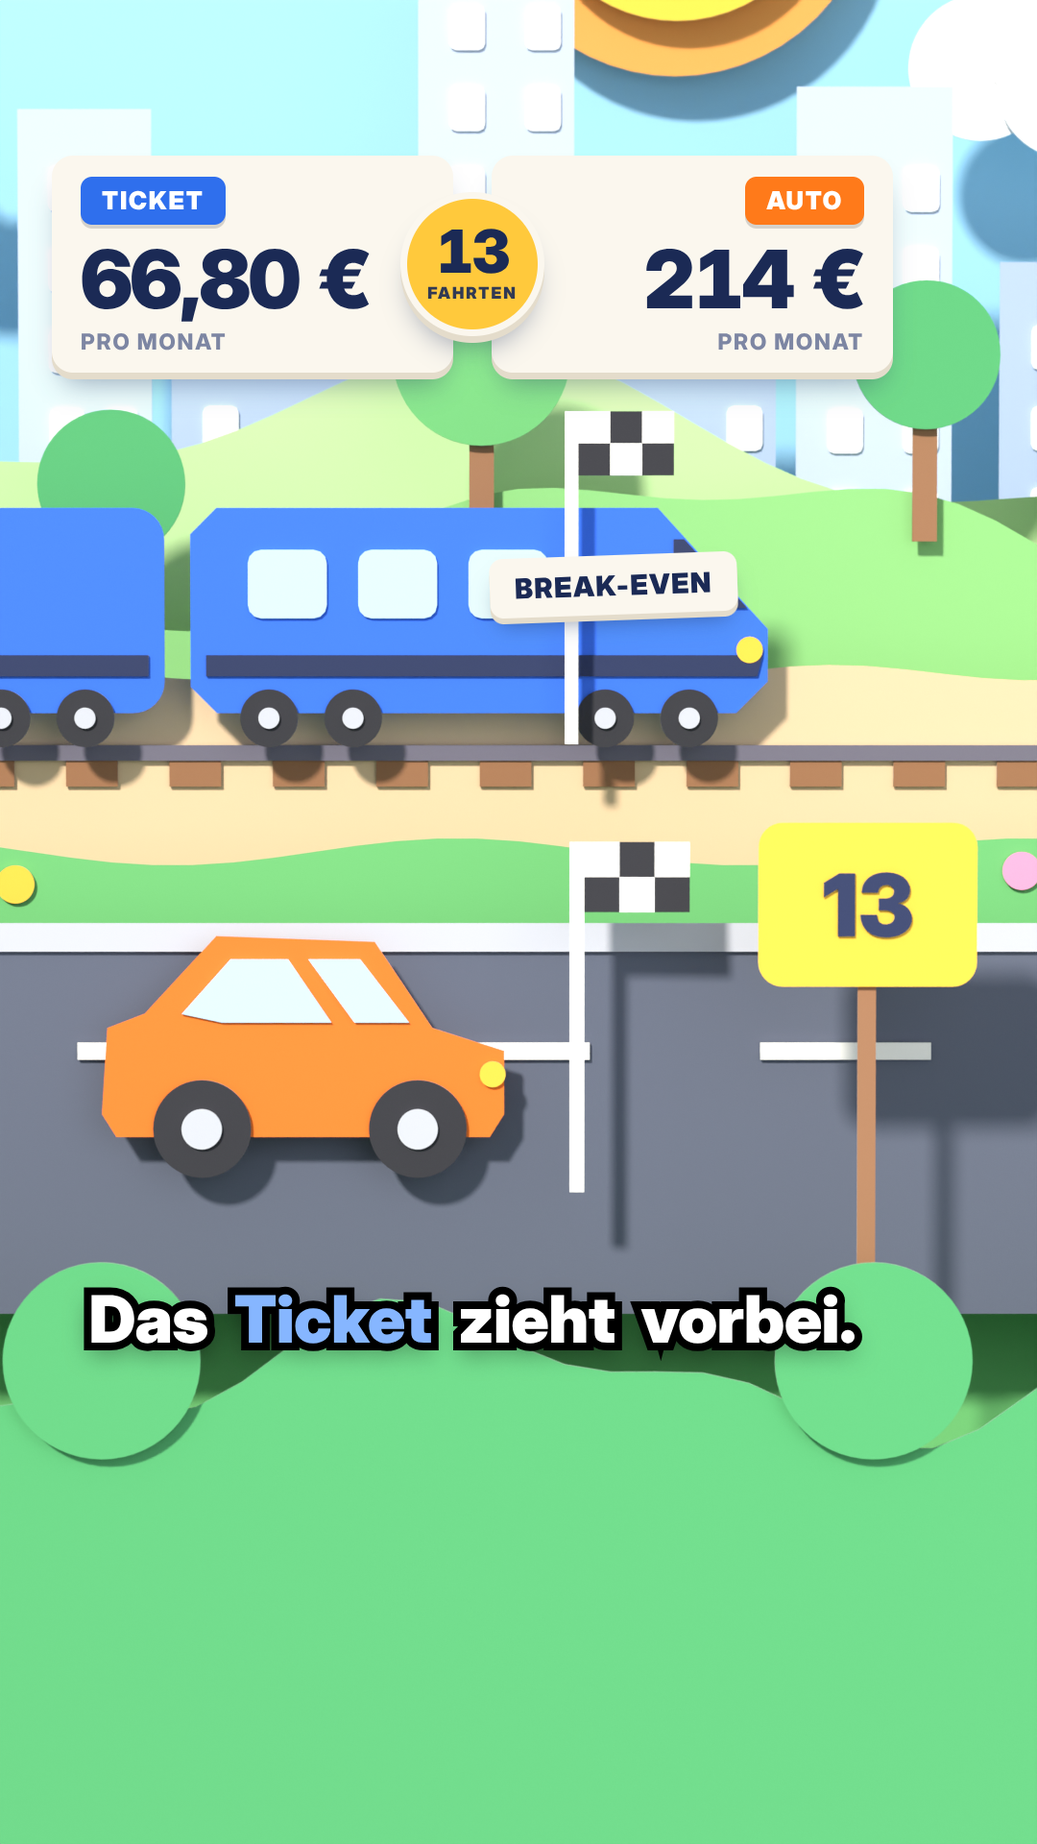
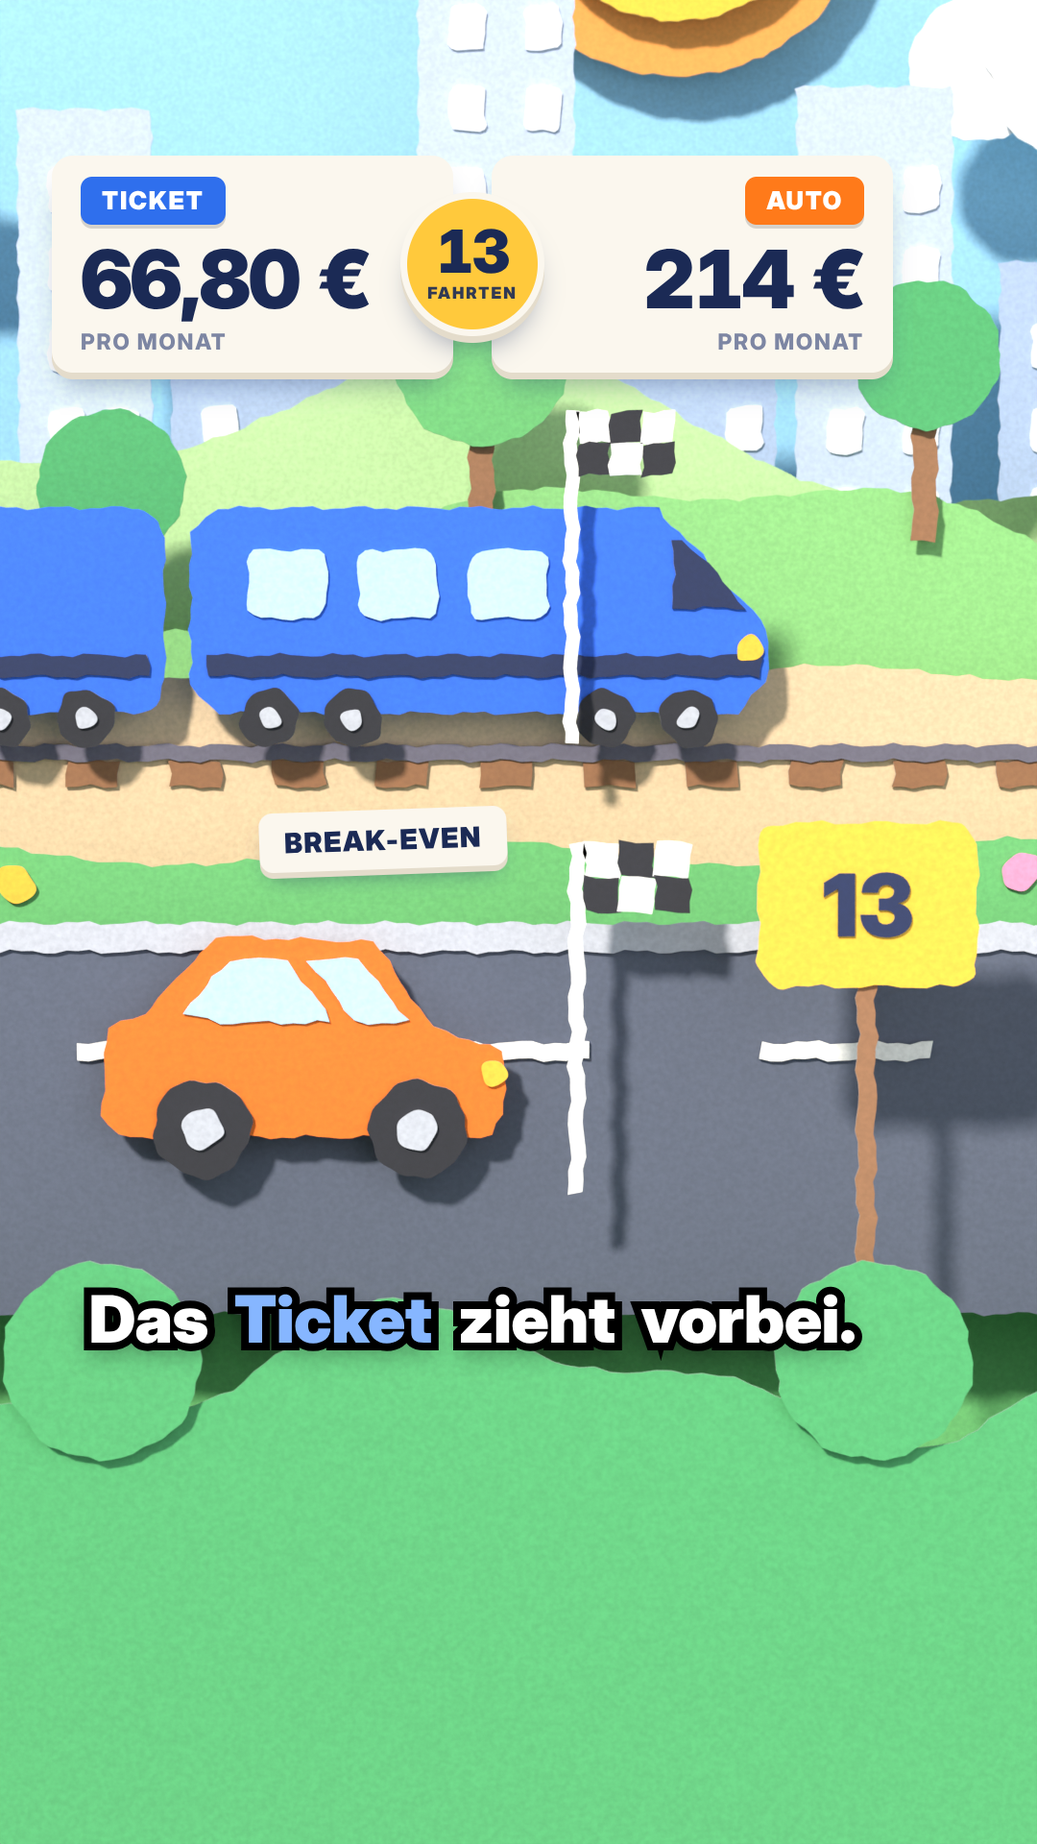
Stil-Katalog um 7 Stile erweitert (9–15: Holz, Papier, Filz, Comic-Toon, Blaupause, Glas-Labor, Holz gebacken), Technik und Renderkosten je Stil, Empfehlung Alleinstellungsmerkmal
Claude-Session: https://claude.ai/code/session_01DQXkz9YLZmqqYzQFpSM2Em

diff --git a/pipeline/stile/stil_10_papier.py b/pipeline/stile/stil_10_papier.py
@@ -29,8 +29,9 @@ def _dunkler(h, f=0.93):
 def papier(name, farbe, rau=0.88):
     """Karton: matte Faser mit Relief, leichte Wolkigkeit im Farbton (wie eingefärbtes Papier)."""
     m = bg.material(name, farbe, rau=rau, sheen=0.35, sheen_rau=0.6)
-    bg.rausch_bump(m, skala=150.0, staerke=0.32, detail=10.0, abstand=0.002)
-    bg.farb_variation(m, _dunkler(farbe, 0.95), farbe, skala=4.0)
+    bg.rausch_bump(m, skala=45.0, staerke=0.45, detail=12.0, abstand=0.003)
+    # Faserkörnung in der Farbe (bleibt nach dem Entrauschen sichtbar, weil der Denoiser die Albedo erhält)
+    bg.farb_variation(m, _dunkler(farbe, 0.93), farbe, skala=55.0)
     return m
 
 
@@ -61,7 +62,13 @@ def schicht(name, punkte, tiefe, farbe_mat, dx=0.0, dz=0.0):
     """Aufrechte Kartonform in der Ebene y = tiefe (Punkte in x/z). Die Kante zittert leicht wie von Hand geschnitten."""
     _nr[0] += 1
     s = _nr[0] * 1.7
-    pts = [(x + dx + 0.007 * math.sin(z * 9.0 + s), z + dz + 0.007 * math.sin(x * 11.0 + s * 1.3)) for x, z in punkte]
+    dicht = []  # gerade Kanten unterteilen, damit das Zittern auch dort wirkt
+    for i, (x0, z0) in enumerate(punkte):
+        x1, z1 = punkte[(i + 1) % len(punkte)]
+        n = max(1, int(math.hypot(x1 - x0, z1 - z0) / 0.04))
+        dicht += [(x0 + (x1 - x0) * k / n, z0 + (z1 - z0) * k / n) for k in range(n)]
+    pts = [(x + dx + 0.006 * math.sin(z * 31.0 + s) + 0.004 * math.sin(z * 73.0 + s * 2.1),
+            z + dz + 0.006 * math.sin(x * 29.0 + s * 1.3) + 0.004 * math.sin(x * 67.0 + s * 0.7)) for x, z in dicht]
     return bg.flaeche(name, pts, D, (0, tiefe, 0), farbe_mat, rot=(math.pi / 2, 0, 0))
 
 

diff --git a/docs/10-designstile.md b/docs/10-designstile.md
@@ -9,7 +9,7 @@
 
 Alle Beispielbilder zeigen denselben Inhalt: das GELD-Duell „Deutschlandticket gegen Auto: Ab wann lohnt sich das Ticket?“. Die Zahlen (66,80 € und 214 € pro Monat, Break-even 13 Fahrten) sind **Beispielwerte**, keine Rechnung.
 
-> **Achtung, alte Beispielbilder 1–8:** Sie entstanden vor dem Maßstab ([15-massstab.md](15-massstab.md)). Sie zeigen teils noch Kanalname und Logo („SIMULIERBAR“ mit Würfel), die Rubrik („€ GELD“), eine große Titelkarte und den alten Karaoke-Untertitel mit gelbem aktuellem Wort. **Das gilt im Video nicht mehr.** Verbindlich ist das Maßstab-Layout: Anzeigetafel oben mit Teamfarben und Zähler, Szene in der Mitte, Untertitel als kurze Phrase (weiß, fett, schwarze Kontur, kein Kasten, Schlüsselwort in Teamfarbe), **kein Kanalname, kein Logo, keine Rubrik**. Die neuen Bilder 9–15 zeigen dieses Layout. Für die Stile 1–8 gilt beim ersten Einsatz: Szene übernehmen, HUD aus `pipeline/stile/massstab.css` bzw. `massstab.js` (Muster) bzw. der Engine.
+> **Achtung, alte Beispielbilder 1–8:** Sie entstanden vor dem Maßstab ([15-massstab.md](15-massstab.md)). Sie zeigen teils noch Kanalname und Logo („SIMULIERBAR“ mit Würfel), die Rubrik („€ GELD“), eine große Titelkarte und den alten Karaoke-Untertitel mit gelbem aktuellem Wort. **Das gilt im Video nicht mehr.** Verbindlich ist das Maßstab-Layout: Anzeigetafel oben mit Teamfarben und Zähler, Szene in der Mitte, Untertitel als kurze Phrase (weiß, fett, schwarze Kontur, kein Kasten, Schlüsselwort in Teamfarbe), **kein Kanalname, kein Logo, keine Rubrik**. Die neuen Bilder 9–15 zeigen dieses Layout. Für die Stile 1–8 gilt beim ersten Einsatz: Szene übernehmen, HUD aus der Engine (`pipeline/engine/massstab.js`). `pipeline/stile/massstab.css` und `massstab.js` sind nur das Muster für die Stilbilder.
 
 ![Neue Stile 9–15 im Maßstab-Layout](assets/stile/uebersicht_neu.jpg)
 
@@ -39,13 +39,13 @@ Renderkosten: Sekunden je Videobild 1080×1920 im Cloud-Container (4 Kerne, ohne
 | 6 | Papier-Collage | `assets/stile/stil_6_collage.png` | News, Gesetze, Handel und Werbung, Debatten: Black Friday, Finanzierung, Abos, Singles Day | heute SVG + Papierfilter → **Three.js** (Flächen mit Canvas-Texturen) oder als 3D-Variante Stil 10 | 0,1 s (SVG) |
 | 7 | Kinetische Typografie | `assets/stile/stil_7_typo.png` | Eine starke Zahl oder ein Mythos: Netto-Schock, Wahrscheinlichkeits-Paradoxa, „Was kostet das in Arbeitsstunden“ | HTML/CSS; bleibt als **HUD-Baustein** in jeder Three.js-Seite erlaubt | 0,2 s |
 | 8 | Karten-/Satellitenoptik | `assets/stile/stil_8_karte.png` | Orte, Wege, Regionen: Stadt gegen Land, Pendeln, Deutschland-Vergleiche, Wetter | Three.js + Bloom | 2,5 s |
-| 9 | **Holzspielzeug-Tisch** | `assets/stile/stil_9_holz.png` | Verkehr und Wege als Spielzeug-Rennen, Familie, Kinder, Spiele, Haushalt; GELD-Duelle mit „Spielgeld“-Münzen | Blender Cycles (Standbild) → fürs Video **Blender → Bake → glTF → Three.js** (Stil 15) | Cycles: «T9» · gebacken in Three.js: «T15F» |
-| 10 | **Papier-Diorama** | `assets/stile/stil_10_papier.png` | Seitenansicht mit zwei Bahnen (wie K1/K2), Stadt gegen Land, Wetter, Natur, Geschichten mit Szenenwechsel (Kulissen schieben) | Blender Cycles → Bake → glTF → Three.js (flache Schichten backen sehr gut) | Cycles: «T10» |
-| 11 | **Filz & Knöpfe** | `assets/stile/stil_11_filz.png` | Zuhause, Heizen, Strom, Schlaf, Winter, **Weihnachten** (Weihnachtsgeld 20.–28.11.), Kinder und Familie | Blender Cycles (Faserglanz) → Bake → glTF → Three.js | Cycles: «T11» |
-| 12 | **Comic-Toon 3D** | `assets/stile/stil_12_comic.png` | Schnelle Rennen mit Action: Verkehr, Sport, Wettläufe, Mythen; Sticker „ÜBERHOLT!“ passt perfekt | Three.js (Cel-Shading 3 Stufen, Rasterpunkte, Konturen) | «T12» |
-| 13 | **Blaupause / Schnittmodell** | `assets/stile/stil_13_blaupause.png` | „Warum?“-Aufschlüsselung, Technik, Energie, Autokosten, Geräte im Querschnitt; auch als **Szenenwechsel-Baustein** in jedem Stil | Three.js (dicke Linien, verdeckte Kanten gestrichelt, Röntgen-Füllung) | «T13» |
-| 14 | **Glas-Labor (Füllstand)** | `assets/stile/stil_14_glas.png` | Alles, was sich ansammelt: Kosten pro Fahrt, Wasser, Strom, Sprit, Zeit; Füllstand-Rennen | Blender Cycles (dünnwandiges Glas, Flüssigkeit mit Subsurface); Three.js mit `transmission` als schnellere, schwächere Variante | Cycles: «T14» |
-| 15 | **Holz gebacken** (Technik-Muster zu 9) | `assets/stile/stil_15_holz_gltf.png` | wie 9; zeigt den Produktionsweg für alle Blender-Stile | Blender (Cycles-Bake) → glTF → Three.js | einmalig Backen «T15B», danach «T15F» |
+| 9 | **Holzspielzeug-Tisch** | `assets/stile/stil_9_holz.png` | Verkehr und Wege als Spielzeug-Rennen, Familie, Kinder, Spiele, Haushalt; GELD-Duelle mit „Spielgeld“-Münzen | Blender Cycles (Standbild) → fürs Video **Blender → Bake → glTF → Three.js** (Stil 15) | Cycles: 194 s (48 Samples) · gebacken in Three.js: 0,9 s |
+| 10 | **Papier-Diorama** | `assets/stile/stil_10_papier.png` | Seitenansicht mit zwei Bahnen (wie K1/K2), Stadt gegen Land, Wetter, Natur, Geschichten mit Szenenwechsel (Kulissen schieben) | Blender Cycles → Bake → glTF → Three.js (flache Schichten backen sehr gut) | Cycles: 133 s (48 Samples) |
+| 11 | **Filz & Knöpfe** | `assets/stile/stil_11_filz.png` | Zuhause, Heizen, Strom, Schlaf, Winter, **Weihnachten** (Weihnachtsgeld 20.–28.11.), Kinder und Familie | Blender Cycles (Faserglanz) → Bake → glTF → Three.js | Cycles: 288 s (48 Samples) |
+| 12 | **Comic-Toon 3D** | `assets/stile/stil_12_comic.png` | Schnelle Rennen mit Action: Verkehr, Sport, Wettläufe, Mythen; Sticker „ÜBERHOLT!“ passt perfekt | Three.js (Cel-Shading 3 Stufen, Rasterpunkte, Konturen) | 0,5 s |
+| 13 | **Blaupause / Schnittmodell** | `assets/stile/stil_13_blaupause.png` | „Warum?“-Aufschlüsselung, Technik, Energie, Autokosten, Geräte im Querschnitt; auch als **Szenenwechsel-Baustein** in jedem Stil | Three.js (dicke Linien, verdeckte Kanten gestrichelt, Röntgen-Füllung) | 0,2 s |
+| 14 | **Glas-Labor (Füllstand)** | `assets/stile/stil_14_glas.png` | Alles, was sich ansammelt: Kosten pro Fahrt, Wasser, Strom, Sprit, Zeit; Füllstand-Rennen | Blender Cycles (dünnwandiges Glas, Flüssigkeit mit Subsurface); Three.js mit `transmission` als schnellere, schwächere Variante | Cycles: 299 s (56 Samples) |
+| 15 | **Holz gebacken** (Technik-Muster zu 9) | `assets/stile/stil_15_holz_gltf.png` | wie 9; zeigt den Produktionsweg für alle Blender-Stile | Blender (Cycles-Bake) → glTF → Three.js | einmalig Backen 5,5 Min., danach 0,9 s (ohne Unschärfe 0,5 s) |
 
 **Regeln bei der Wahl:**
 - Zwei direkt aufeinanderfolgende Videos haben nie denselben Stil.
@@ -69,7 +69,7 @@ Gemeinsam: Maßstab-HUD aus `pipeline/stile/massstab.css` und `massstab.js` (Taf
 11. **Filz & Knöpfe** (`stil_11_filz.py` + `.html`)
     - Look: gepolsterte Filzformen mit Faserglanz, Ziernähte, Knöpfe als Räder, Bommel-Bäume, Garnrolle, Filzfähnchen „13“, Tafel als Filzflicken mit Naht.
     - Stärke: gemütlich, saisonal (Winter, Weihnachten), sehr eigen (A).
-    - Schwäche: teuerster Material-Look (Faserglanz und Struktur brauchen Samples); feine Fusseln nur mit Haar-Partikeln (noch teurer). Für viele Objekte zu unruhig (A).
+    - Schwäche: neben Glas der teuerste Look (Faserglanz und Struktur brauchen Samples). Die Faser muss als Farbkörnung im Material liegen, sonst glättet der Denoiser sie weg (F, Test). Echte Fusseln nur mit Haar-Partikeln (noch teurer). Für viele Objekte zu unruhig (A).
 12. **Comic-Toon 3D** (`stil_12_comic.html` + `.js`)
     - Look: Cel-Shading in 3 Stufen, Rasterpunkte (Halftone) in den Schatten, schwarze Konturen, harte Schatten, Strahlenkranz-Himmel, Tempostriche, Sticker „ÜBERHOLT!“, schräge Comic-Panels als Tafel.
     - Stärke: maximal lesbar und energiegeladen, rendert schnell, keine Nachbearbeitung nötig (F, Messung). Bausteine aus dem Maßstab (Sticker, Chips) passen nahtlos.
@@ -79,13 +79,13 @@ Gemeinsam: Maßstab-HUD aus `pipeline/stile/massstab.css` und `massstab.js` (Taf
     - Stärke: macht die „Warum?“-Aufschlüsselung sichtbar (Maßstab-Gesetz 8). Schnellster neuer Stil (F, Messung).
     - Schwäche: allein zu kühl für ein ganzes Video; am besten als Szenenwechsel (A).
 14. **Glas-Labor** (`stil_14_glas.py` + `.html`)
-    - Look: zwei Messzylinder im Fotostudio (Hohlkehle, Softboxen), Geld als farbige Flüssigkeit, Zulauf mit Strahl über dem Auto-Zylinder, gelbe Gleichstand-Linie, Zielstrich „214“, Milchglas-Tafel.
+    - Look: zwei Messzylinder aus dünnem Laborglas im Fotostudio (Hohlkehle, Softboxen), Geld als farbige Flüssigkeit, Zulauf mit Strahl und Tropfen über dem Auto-Zylinder, gelbe Gleichstand-Linie, Zielstrich „214“, Teamchips auf den Zylindern, Milchglas-Tafel.
     - Stärke: Füllstand ist ein Live-Zähler, den jeder ohne Erklärung versteht; erinnert an K4 (Messzylinder), aber fotorealistisch statt 2.5D (A).
-    - Schwäche: Glas mit Brechung ist der teuerste Effekt; im Video nur gebacken bzw. mit Three.js-`transmission` vereinfacht (S).
+    - Schwäche: Glas und durchscheinende Flüssigkeit sind blickabhängig und lassen sich nicht backen. Fürs Video: Three.js-`transmission` bzw. halbtransparente Flüssigkeit mit gebackener Umgebung (S). Echte dicke Glaswände (Brechung) wurden in Cycles schwarz bzw. unruhig; dünnwandiges Glas (`Thin Wall`) ist sauberer und schneller (F, Test).
 15. **Holz gebacken: Blender → glTF → Three.js** (`stil_15_holz_gltf.py` + `.html`/`.js`)
     - Weg: Szene aus Stil 9 bauen → Licht in Texturen backen (Cycles, diffus: direkt + indirekt + Farbe) → eine `.glb`-Datei → Three.js zeigt sie mit unbeleuchteten Materialien, AgX-Tonemapping wie Blender und einer günstigen Tiefenunschärfe (Abstand je Pixel, Weichzeichner in halber und viertel Auflösung, Stärke aus Brennweite und Blende der Blender-Kamera). Der fertige `BokehPass` von Three.js kostete unter Last 2,6–3 s je Bild (F, Messung) und wurde deshalb ersetzt.
     - Regeln: Tisch und Kulisse **ohne** Fahrzeuge backen, Fahrzeuge einzeln backen und mit mitfahrendem Kontaktschatten bewegen; Glanz wird nicht gebacken.
-    - Ergebnis: Das Bild ist dem Cycles-Bild 9 sehr nah (F, Bildvergleich). Unterschiede: kein Glanz auf dem Lack, Farben etwas flauer (der AgX-„Punchy“-Look fehlt in Three.js), Kontaktschatten der Fahrzeuge weicher. Zug und Auto lassen sich per `renderAt(t)` verschieben (Beweis der Animierbarkeit).
+    - Ergebnis: Das Bild ist dem Cycles-Bild 9 sehr nah (A, eigener Bildvergleich). Unterschiede: kein Glanz auf dem Lack, Farben etwas flauer (der AgX-„Punchy“-Look fehlt in Three.js), Kontaktschatten der Fahrzeuge weicher. Zug und Auto lassen sich per `renderAt(t)` verschieben (Beweis der Animierbarkeit).
     - Fallstrick (behoben): `gltf.scene` ist in Three.js nur eine Gruppe. `overrideMaterial` und `background` wirken erst, wenn sie in eine echte `THREE.Scene` gehängt wird.
 
 ### 0.2 Bewertung aller geprüften Kandidaten (Recherche 31.10./01.11.2026)
@@ -112,16 +112,16 @@ Punkte 1 (schlecht) bis 5 (gut), alle **Schätzungen (S)** auf Basis der Beispie
 
 ### 0.3 Technik-Pfade und Renderkosten (gemessen 01.11.2026)
 
-Messung im Cloud-Container (4 Kerne, ohne GPU). **Parallel lief ein Blender-Render eines anderen Agenten** (Last 7–10). Die absoluten Cycles-Werte sind deshalb zu hoch, ohne Last etwa halb so lang (S).
+Messung im Cloud-Container (4 Kerne, ohne GPU), Cycles mit 3–4 Threads. **Zeitweise lief parallel ein Blender-Render eines anderen Agenten** (Last 3–10). Unter Volllast dauerten dieselben Bilder 1,6- bis 2-mal so lange (F: Holz 307 statt 194 s, Filz 592 statt 288 s, Backen 560 statt 327 s, Bild aus dem Bake-Weg 1,5–1,75 statt 0,9 s). Werte: `pipeline/stile/messung_neu.json`.
 
 | Pfad | Was | Cloud (F, gemessen) | Windows-PC mit GPU (S) | Einsatz |
 |---|---|---|---|---|
-| Three.js direkt | Comic (12), Blaupause (13) | «T12» bzw. «T13» je Bild → 80-s-Video ca. «V12» | 3–5 Min. je Video | Produktion |
-| Blender Cycles je Bild | Holz, Papier, Filz, Glas als Standbild, 1080×1920, 48–96 Samples + Denoiser | Holz «T9», Papier «T10», Filz «T11», Glas «T14» je Bild → 80-s-Video **über 200 Std.** | 5–20 s je Bild → 3–13 Std. je Video | **nur** Standbilder, Vorschaubild, kurze Einschübe (1–3 s) |
-| Blender → Bake → glTF → Three.js | Stil 15 (Holz) | einmalig Backen «T15B», danach «T15F» je Bild → 80-s-Video ca. «V15» | Backen 1–3 Min., je Bild unter 0,3 s | **Produktionsweg für alle Material-Stile** |
+| Three.js direkt | Comic (12), Blaupause (13) | 0,5 s bzw. 0,2 s je Bild → 80-s-Video ca. 21 bzw. 8 Min. | 3–5 Min. je Video | Produktion |
+| Blender Cycles je Bild | Holz, Papier, Filz, Glas als Standbild, 1080×1920, 48–56 Samples + Denoiser (OpenImageDenoise) | Papier 133 s, Holz 194 s, Filz 288 s, Glas 299 s je Bild → 80-s-Video **90–200 Std.** | 5–20 s je Bild → 3–13 Std. je Video | **nur** Standbilder, Vorschaubild, kurze Einschübe (1–3 s) |
+| Blender → Bake → glTF → Three.js | Stil 15 (Holz): 5 Lichttexturen (2048² Kulisse, 1024² Zug und Auto, 1024×512 Tisch, 512² Wand), 32 Samples, `.glb` 1,7 MB | einmalig Backen 5,5 Min. (Kulisse 152 s, Zug 68 s, Auto 64 s, Tisch 36 s, Wand 5 s), danach 0,9 s je Bild mit Tiefenunschärfe (0,5 s ohne) → 80-s-Video ca. 35 Min. | Backen 1–3 Min., je Bild unter 0,3 s | **Produktionsweg für alle Material-Stile** |
 | Blender Eevee | gleiche Szenen, Echtzeit-Renderer | in der Cloud nicht brauchbar: läuft nur per Software-OpenGL (Testkugel 540×960: 42 s, mit Bildfehler) (F) | ca. 0,5–3 s je Bild (S) | Option, sobald der Windows-PC rendert |
 
-Folgerung: Der Qualitätssprung durch Blender ist im Standbild deutlich (F, Bildvergleich 9 gegen 3). Fürs Video ist Cycles je Bild in der Cloud nicht machbar. **Der Bake-Weg holt den Großteil der Blender-Qualität (Licht, weiche Schatten, Material) zu Three.js-Kosten** (F, Messung Stil 15). Was verloren geht: Glanz und Spiegelungen, Glas-Brechung, bewegte Schatten (Ersatz: Kontaktschatten, Three.js-Glanzlicht) (F, Bildvergleich).
+Folgerung: Der Qualitätssprung durch Blender ist im Standbild deutlich (A, eigener Bildvergleich 9 gegen 3). Fürs Video ist Cycles je Bild in der Cloud nicht machbar. **Der Bake-Weg holt den Großteil der Blender-Qualität (Licht, weiche Schatten, Material) zu Three.js-Kosten** (F, Messung Stil 15). Was verloren geht: Glanz und Spiegelungen, Glas-Brechung, bewegte Schatten (Ersatz: Kontaktschatten, Three.js-Glanzlicht) (F, Vergleich der Bilder 9 und 15).
 
 ### 0.4 Alleinstellungsmerkmal: Empfehlung
 
@@ -138,7 +138,7 @@ Begründung:
 - **Design-Trend 2026: zurück zum Taktilen und Handgemachten.** Trendberichte beschreiben eine Abkehr vom glatten Digital-3D von 2025 hin zu Oberflächen, die „gemacht“ wirken (Papier, Stoff, Ton), gerade als Gegenpol zu KI-Bildern (F, Sekundärquellen: Creative Bloq, Videobolt, Graphic Design Junction; Blogs, keine Reichweitendaten).
 - **Spielzeug statt Spielegrafik:** Holz, Papier und Filz wirken wie Bastel- bzw. Spielzeugwelt, nicht wie ein Videospiel. Das kann die Einordnung als „Video Games“ verringern (A; Anlass F: 4 von 6 unserer 3D-Videos wurden so eingeordnet).
 - **Schwer zu kopieren:** Pfadverfolgte Materialien plus automatisierter Bake-Weg brauchen Blender-Wissen und eine Pipeline. Eine öffentliche Low-Poly-Vorlage reicht dafür nicht (A).
-- **Bezahlbar:** Mit dem Bake-Weg kostet ein Videobild «T15F» statt «T9» (F, Messung).
+- **Bezahlbar:** Mit dem Bake-Weg kostet ein Videobild 0,9 s statt 194 s, also gut 200-mal weniger, und ist schneller als unser bisheriger Low-Poly-Stil 1 (F, Messung).
 - **Wechsel je Thema bleibt möglich** (Entscheidung 31.10.), trotzdem bleibt der Kanal erkennbar: Material wechselt, Rezept und HUD bleiben (A).
 - **Ehrlicher Vorbehalt:** Es gibt keinen Beleg, dass ein Material-Look mehr Views bringt. Der Effekt muss im Test gemessen werden (Abschnitt 3, Schritt 4).
 
@@ -147,7 +147,7 @@ Begründung:
 | # | Schritt | Wer | Zeit (S) |
 |---|---|---|---|
 | 1 | Übersicht `uebersicht_neu.jpg` ansehen, Familie „Handgemachte Miniatur“ bestätigen oder Stile streichen | Inhaber | 10 Min. |
-| 2 | Bake-Baukasten verallgemeinern: Blender-Szene → Bake → glTF → Engine-Modul (Fahrzeuge animieren, Kontaktschatten, Bokeh) für Holz, danach Papier und Filz | Claude (mit dem Engine-Agenten abstimmen) | 6–8 Std. |
+| 2 | Bake-Baukasten verallgemeinern: Blender-Szene → Bake → glTF → Engine-Modul (Fahrzeuge animieren, Räder drehen, Kontaktschatten, Tiefenunschärfe) für Holz, danach Papier und Filz | Claude (mit dem Engine-Agenten abstimmen) | 6–8 Std. |
 | 3 | Erstes Video im Holz-Stil (Thema mit Rennen, z. B. Verkehr) und eins in Comic-Toon als schnelle Gegenprobe | Claude | je 3–4 Std. |
 | 4 | Blaupausen-Szenenwechsel als Engine-Baustein für „Warum?“ | Claude | 3 Std. |
 | 5 | Auf dem Windows-PC messen: `python pipeline\stile\stil_9_holz.py --gpu` und `node stile/render_neu.js --gpu` (bpy per `pip install bpy`) | Inhaber | 15 Min. |
@@ -159,7 +159,7 @@ Begründung:
 - Knete in Blender: [80.lv: Clay Doh shader](https://80.lv/articles/clay-d-oh-a-clay-shader-for-blender) · [Digital Production: Clay 4.Doh](https://digitalproduction.com/2025/08/25/clay-4-doh-update-sculpts-blender-workflow/)
 - Comic/Halftone: [Three.js Journey: Halftone Shading](https://threejs-journey.com/lessons/halftone-shading-shaders) · [BlenderNation: Spiderverse-Shader in 7 Schritten](https://www.blendernation.com/2024/01/15/7-steps-to-make-a-spiderverse-shader-in-blender/)
 - Backen für Three.js: [three.js Forum: Lightmaps batch-backen für Three.js](https://discourse.threejs.org/t/made-a-blender-script-for-batch-baking-lightmaps-to-optimize-models-for-threejs/82346) · [Svilenkovic: How to bake lighting for web](https://www.svilenkovic.com/3d/how-to-bake-lighting-for-web) · [Needle Engine: Lightmapping](https://engine.needle.tools/docs/blender/lightmapping)
-- Baustein-Form und Marke: [IPKat zu EuGH C-48/09 P (Lego-Stein)](https://ipkitten.blogspot.com/2010/09/lego-brick-hits-wall.html) · [World Trademark Review zur Löschung der Formmarke](https://www.worldtrademarkreview.com/article/grand-board-upolds-cancellation-of-lego-shape-mark) · [DIMT: EuG zu Minifiguren](https://www.dimt.it/news/78eu-general-court-rules-lego-mini-figures-should-continue-to-be-protected-as-shape-marks/)
+- Baustein-Form und Marke: [IPKat zu EuGH C-48/09 P (Formmarke Klemmbaustein)](https://ipkitten.blogspot.com/2010/09/lego-brick-hits-wall.html) · [World Trademark Review zur Löschung der Formmarke](https://www.worldtrademarkreview.com/article/grand-board-upolds-cancellation-of-lego-shape-mark) · [DIMT: EuG zu Minifiguren](https://www.dimt.it/news/78eu-general-court-rules-lego-mini-figures-should-continue-to-be-protected-as-shape-marks/)
 - GPU-Leistung Blender (Drittanbieter, auf Basis Blender Open Data): [Renderjuice: RTX 4070 for Blender](https://www.renderjuice.com/gpus/rtx-4070-for-blender)
 
 ---

diff --git a/CLAUDE.md b/CLAUDE.md
@@ -97,6 +97,8 @@ Lies zu Beginn jeder Sitzung zuerst `STATUS.md`, `ENTSCHEIDUNGEN.md` und **`docs
   - **Erstellt ausschließlich mit Three.js und/oder Blender** (Entscheidung 31.10.)
     - auch kombiniert, z. B. Modelle, Materialien und Licht in Blender bauen bzw. backen, als glTF exportieren und in Three.js animieren
     - Keine anderen Video-, Vorlagen- oder KI-Video-Generatoren.
+    - HUD, Untertitel und Karten als HTML/CSS-Ebene in derselben Three.js-Seite gehören dazu. Die alten Stile 4, 5 und 6 (SVG/HTML-Muster) werden beim ersten Einsatz in Three.js nachgebaut.
+    - Echte Blender-Renders (Cycles) nur für Standbilder, Logo und kurze Szenen. Für ganze Videos in Blender-Optik gilt der Weg „Blender backen → glTF → Three.js“ (Stil 15, ca. 0,9 s/Bild).
   - **Kein Kanalname, kein Logo, keine Rubrik im Video**, nie (Entscheidung 31.10.). Das 3D-Logo (`marke/`) ist für Profilbild und Kanalgrafik.
   - **Designstil je Video:**
     - genau einer aus dem Stil-Katalog in `docs/10-designstile.md` (Abschnitt 0), passend zum Thema
